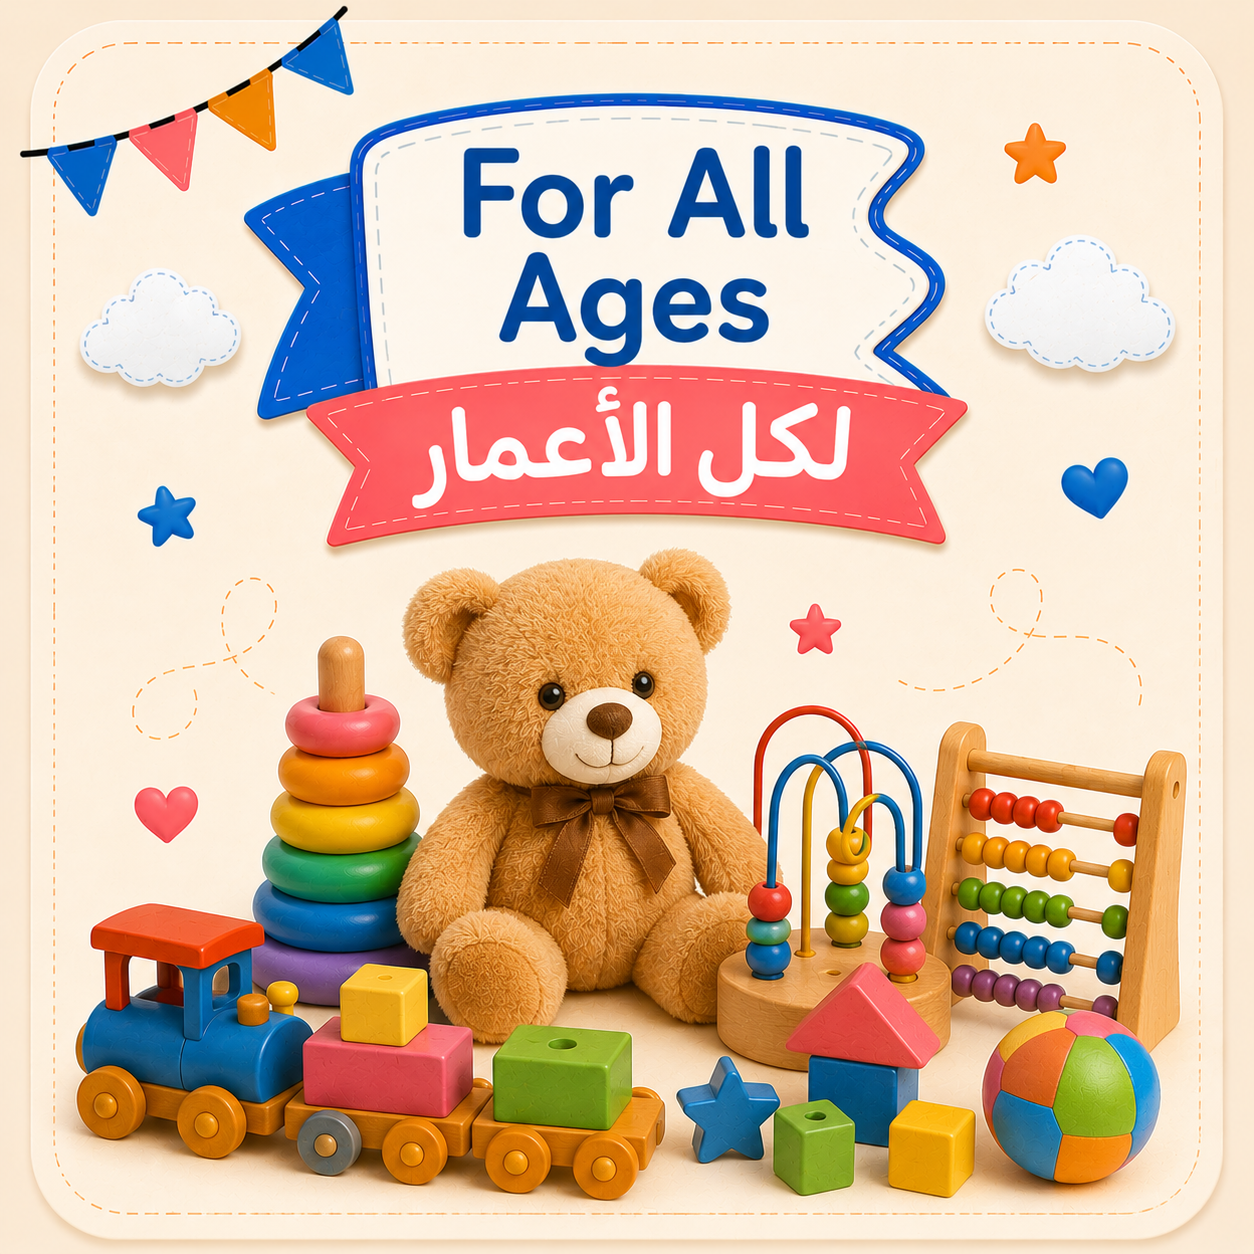
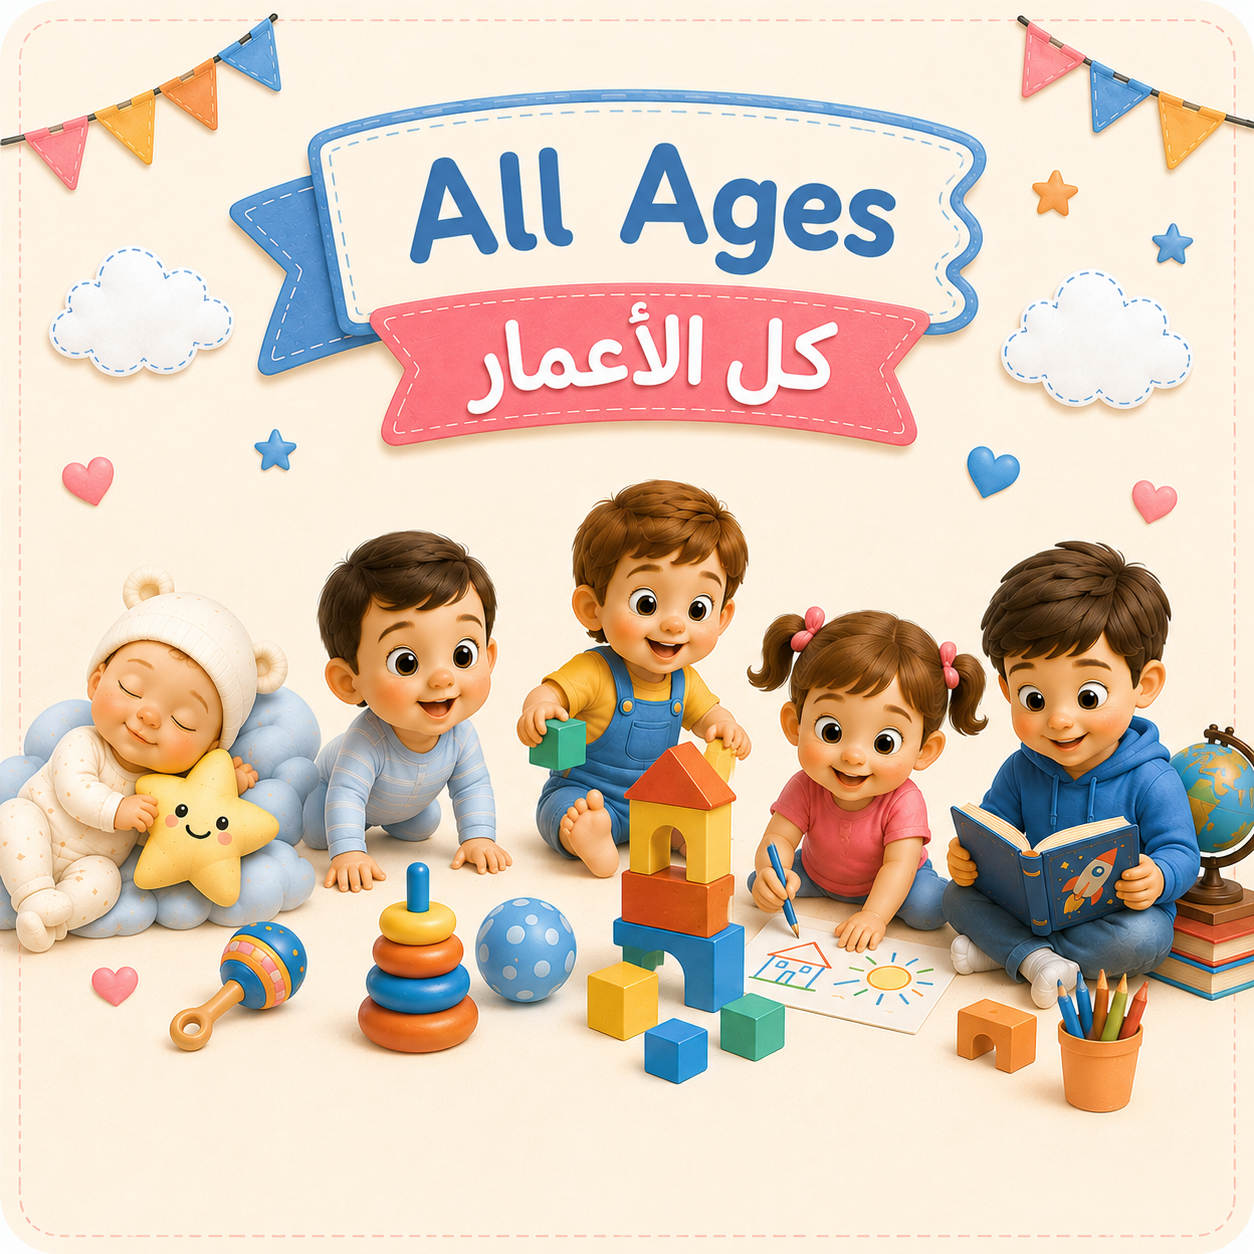
feat: add CategoryFilterCarousel

diff --git a/client/src/components/CategoryFilterCarousel.jsx b/client/src/components/CategoryFilterCarousel.jsx
@@ -1,0 +1,65 @@
+import { Box, Card, CardActionArea, Typography } from "@mui/material";
+
+function CategoryFilterCarousel({ selectedCategory, onSelectCategory }) {
+    const categoryOptions = [
+        { label: "All", value: "All", image: "/category/all.png" },
+        { label: "Educational Toys", value: "Educational Toys", image: "/category/educational.png" },
+        { label: "Sensory Toys", value: "Sensory Toys", image: "/category/sensory.png" },
+        { label: "Puzzle & Brain Games", value: "Puzzle & Brain Games", image: "/category/puzzle.png" },
+        { label: "Motor Skills Toys", value: "Motor Skills Toys", image: "/category/motor.png" },
+        { label: "Outdoor Toys", value: "Outdoor Toys", image: "/category/outdoor.png" },
+        { label: "Role-Play Toys", value: "Role-Play Toys", image: "/category/role-play.png" },
+        { label: "Books & Stories", value: "Books & Stories", image: "/category/books.png" },
+        { label: "Toy Sets", value: "Toy Sets", image: "/category/sets.png" },
+        { label: "Other", value: "Other", image: "/category/other.png" },
+    ];
+
+    return (
+        <Box
+            sx={{
+                display: "flex",
+                gap: 2,
+                overflowX: "auto",
+                pb: 1,
+                mb: 3,
+                scrollSnapType: "x mandatory",
+            }}
+        >
+            {categoryOptions.map((category) => {
+                const isSelected = selectedCategory === category.value;
+
+                return (
+                    <Card
+                        key={category.value}
+                        sx={{
+                            minWidth: 160,
+                            height: "auto",
+                            borderRadius: 0.5,
+                            scrollSnapAlign: "start",
+                            border: isSelected ? "3px solid" : "1px solid",
+                            borderColor: isSelected ? "primary.main" : "divider",
+                        }}
+                    >
+                        <CardActionArea onClick={() => onSelectCategory(category.value)}>
+                            <Box
+                                component="img"
+                                src={category.image}
+                                alt={category.label}
+                                sx={{
+                                    width: "100%",
+                                    height: "auto",
+                                    objectFit: "cover",
+                                    display: "block",
+                                }}
+                            />
+
+
+                        </CardActionArea>
+                    </Card>
+                );
+            })}
+        </Box>
+    );
+}
+
+export default CategoryFilterCarousel;

diff --git a/client/src/pages/ProductsPage.jsx b/client/src/pages/ProductsPage.jsx
@@ -19,6 +19,7 @@ import api from "../services/api";
 import ProductCard from "../components/ProductCard";
 import Loading from "../components/Loading";
 import AgeFilterCarousel from "../components/AgeFilterCarousel";
+import CategoryFilterCarousel from "../components/CategoryFilterCarousel";
 import banner1 from "../assets/banner.png";
 import banner2 from "../assets/desktop-banner.png";
 import SearchIcon from "@mui/icons-material/Search";
@@ -35,6 +36,7 @@ const categories = [
   "Outdoor Toys",
   "Role-Play Toys", 
   "Books & Stories",
+  "Toy Sets",
   "Other",
 ];
 
@@ -180,6 +182,10 @@ function ProductsPage() {
         <AgeFilterCarousel
           selectedAgeRange={selectedAgeRange}
           onSelectAge={setSelectedAgeRange}
+        />
+        <CategoryFilterCarousel
+          selectedCategory={selectedCategory}
+          onSelectCategory={setSelectedCategory}
         />
 
         <Box